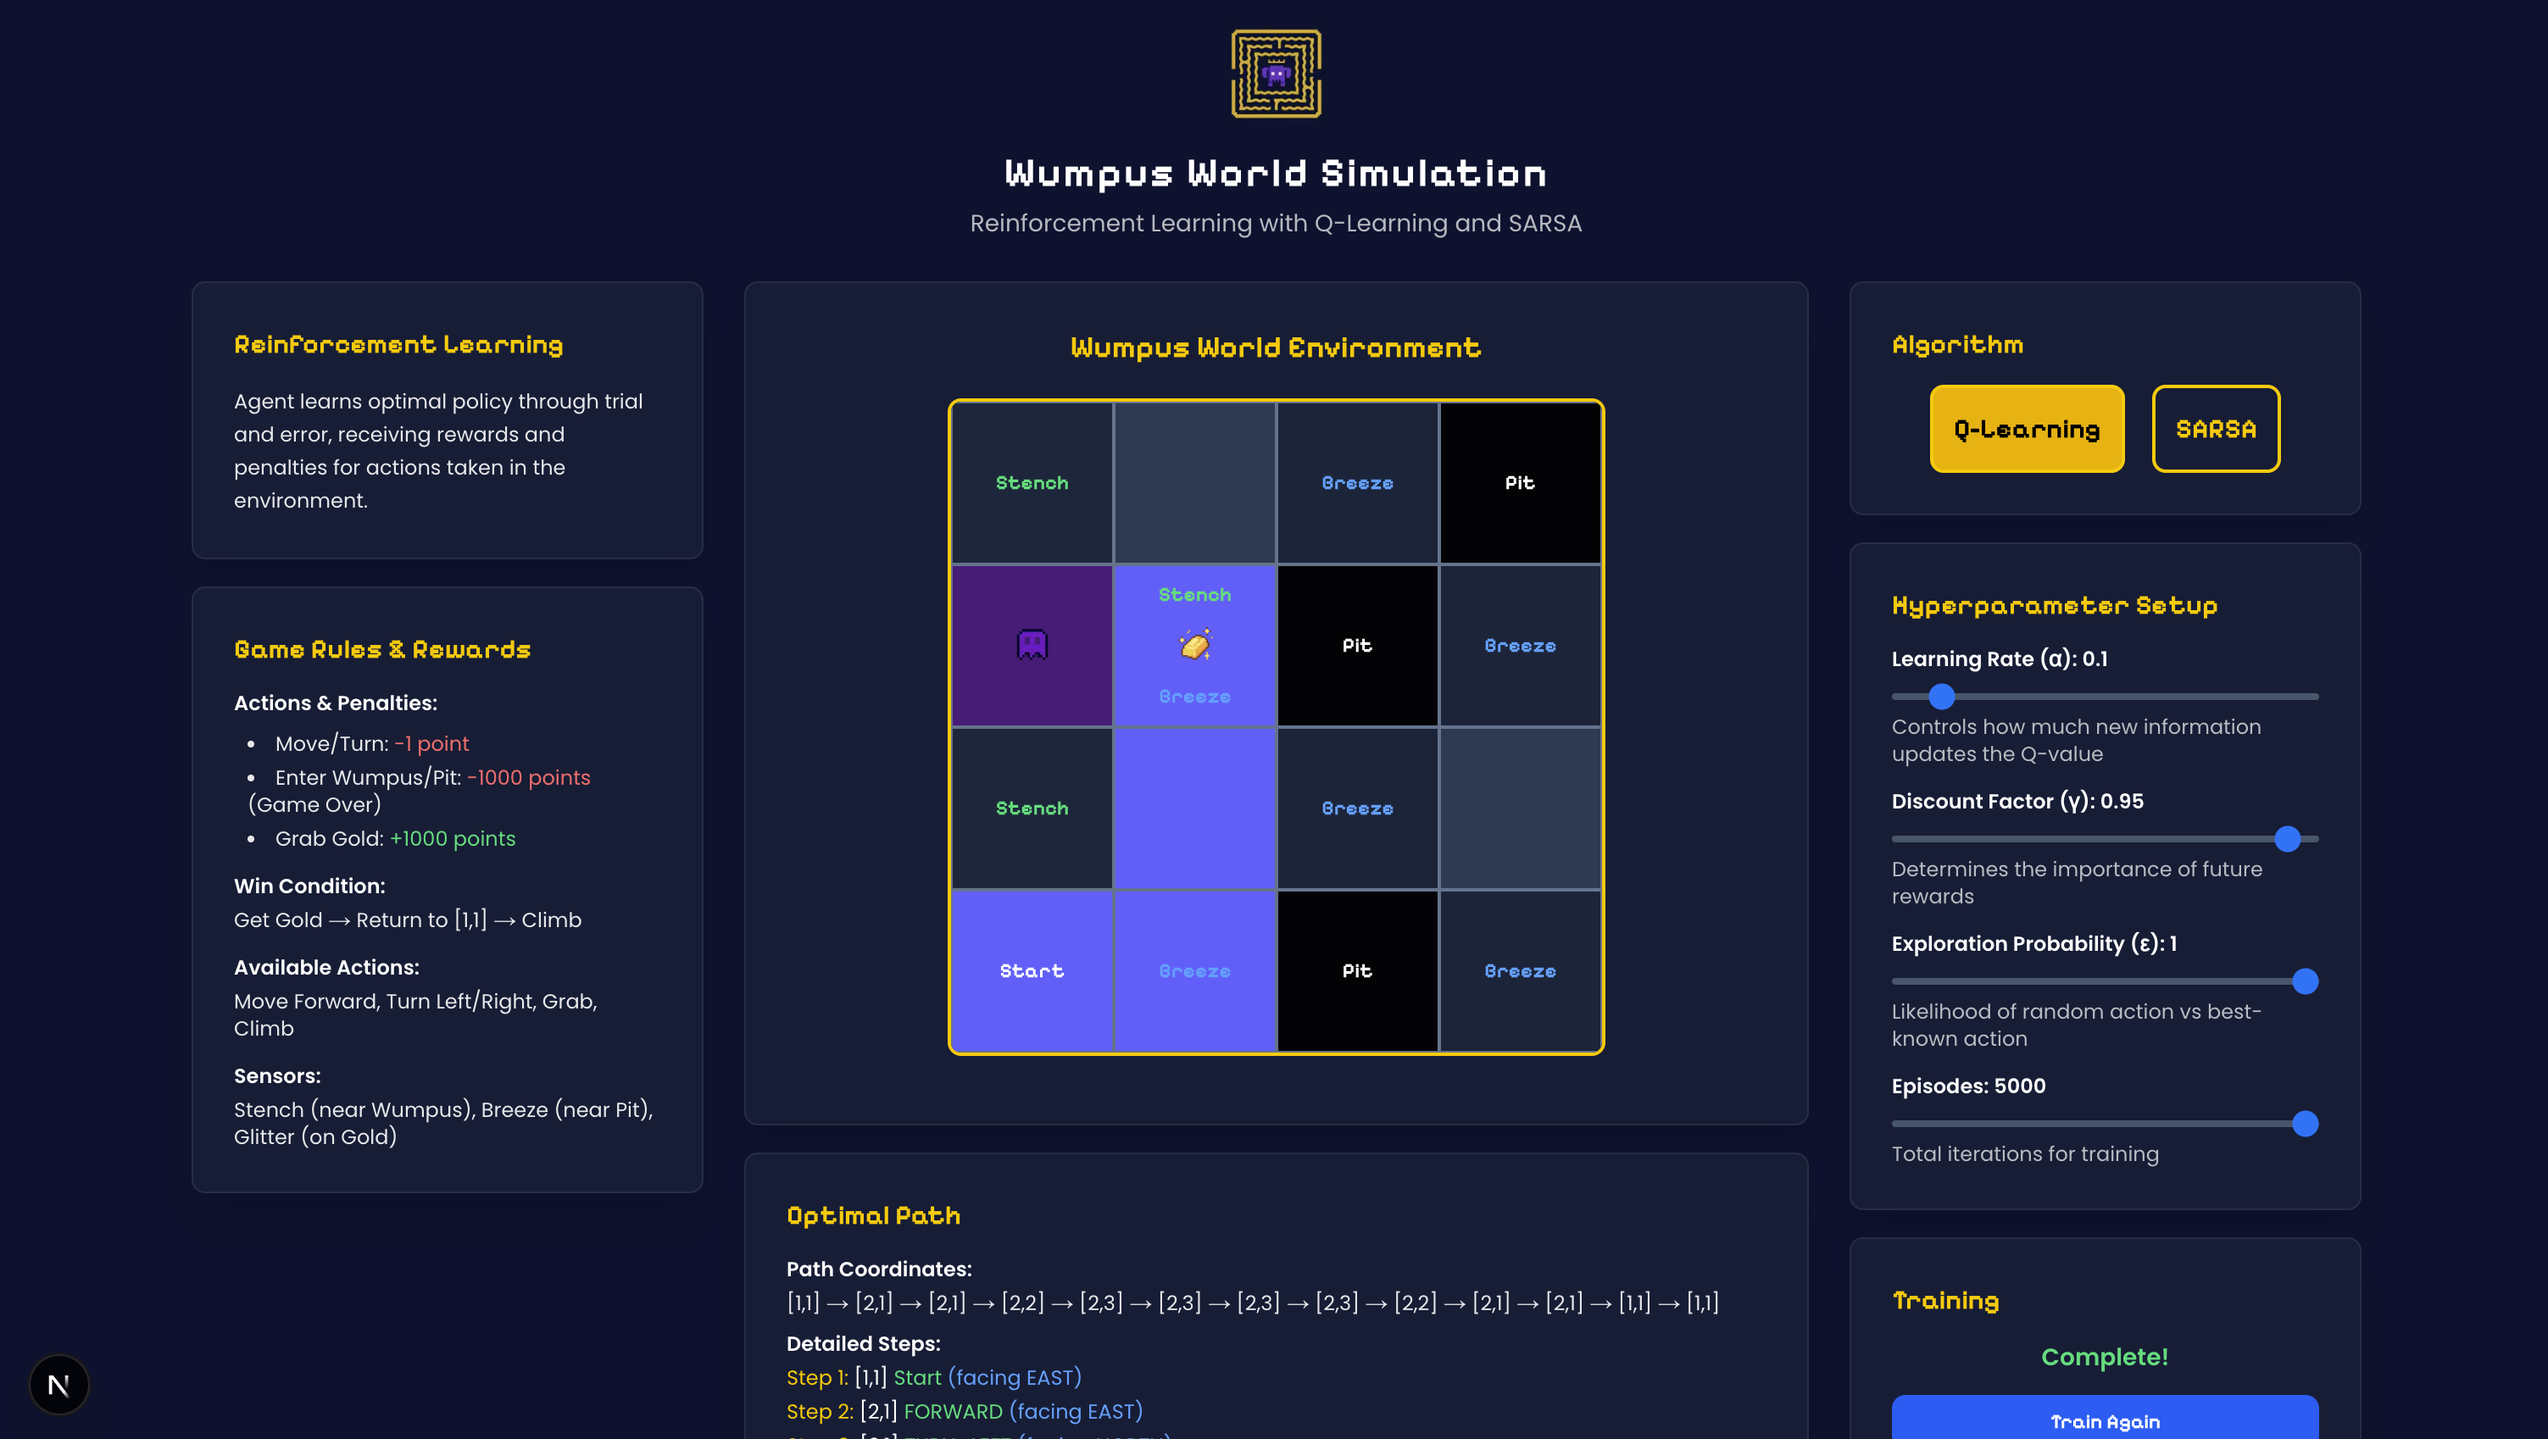
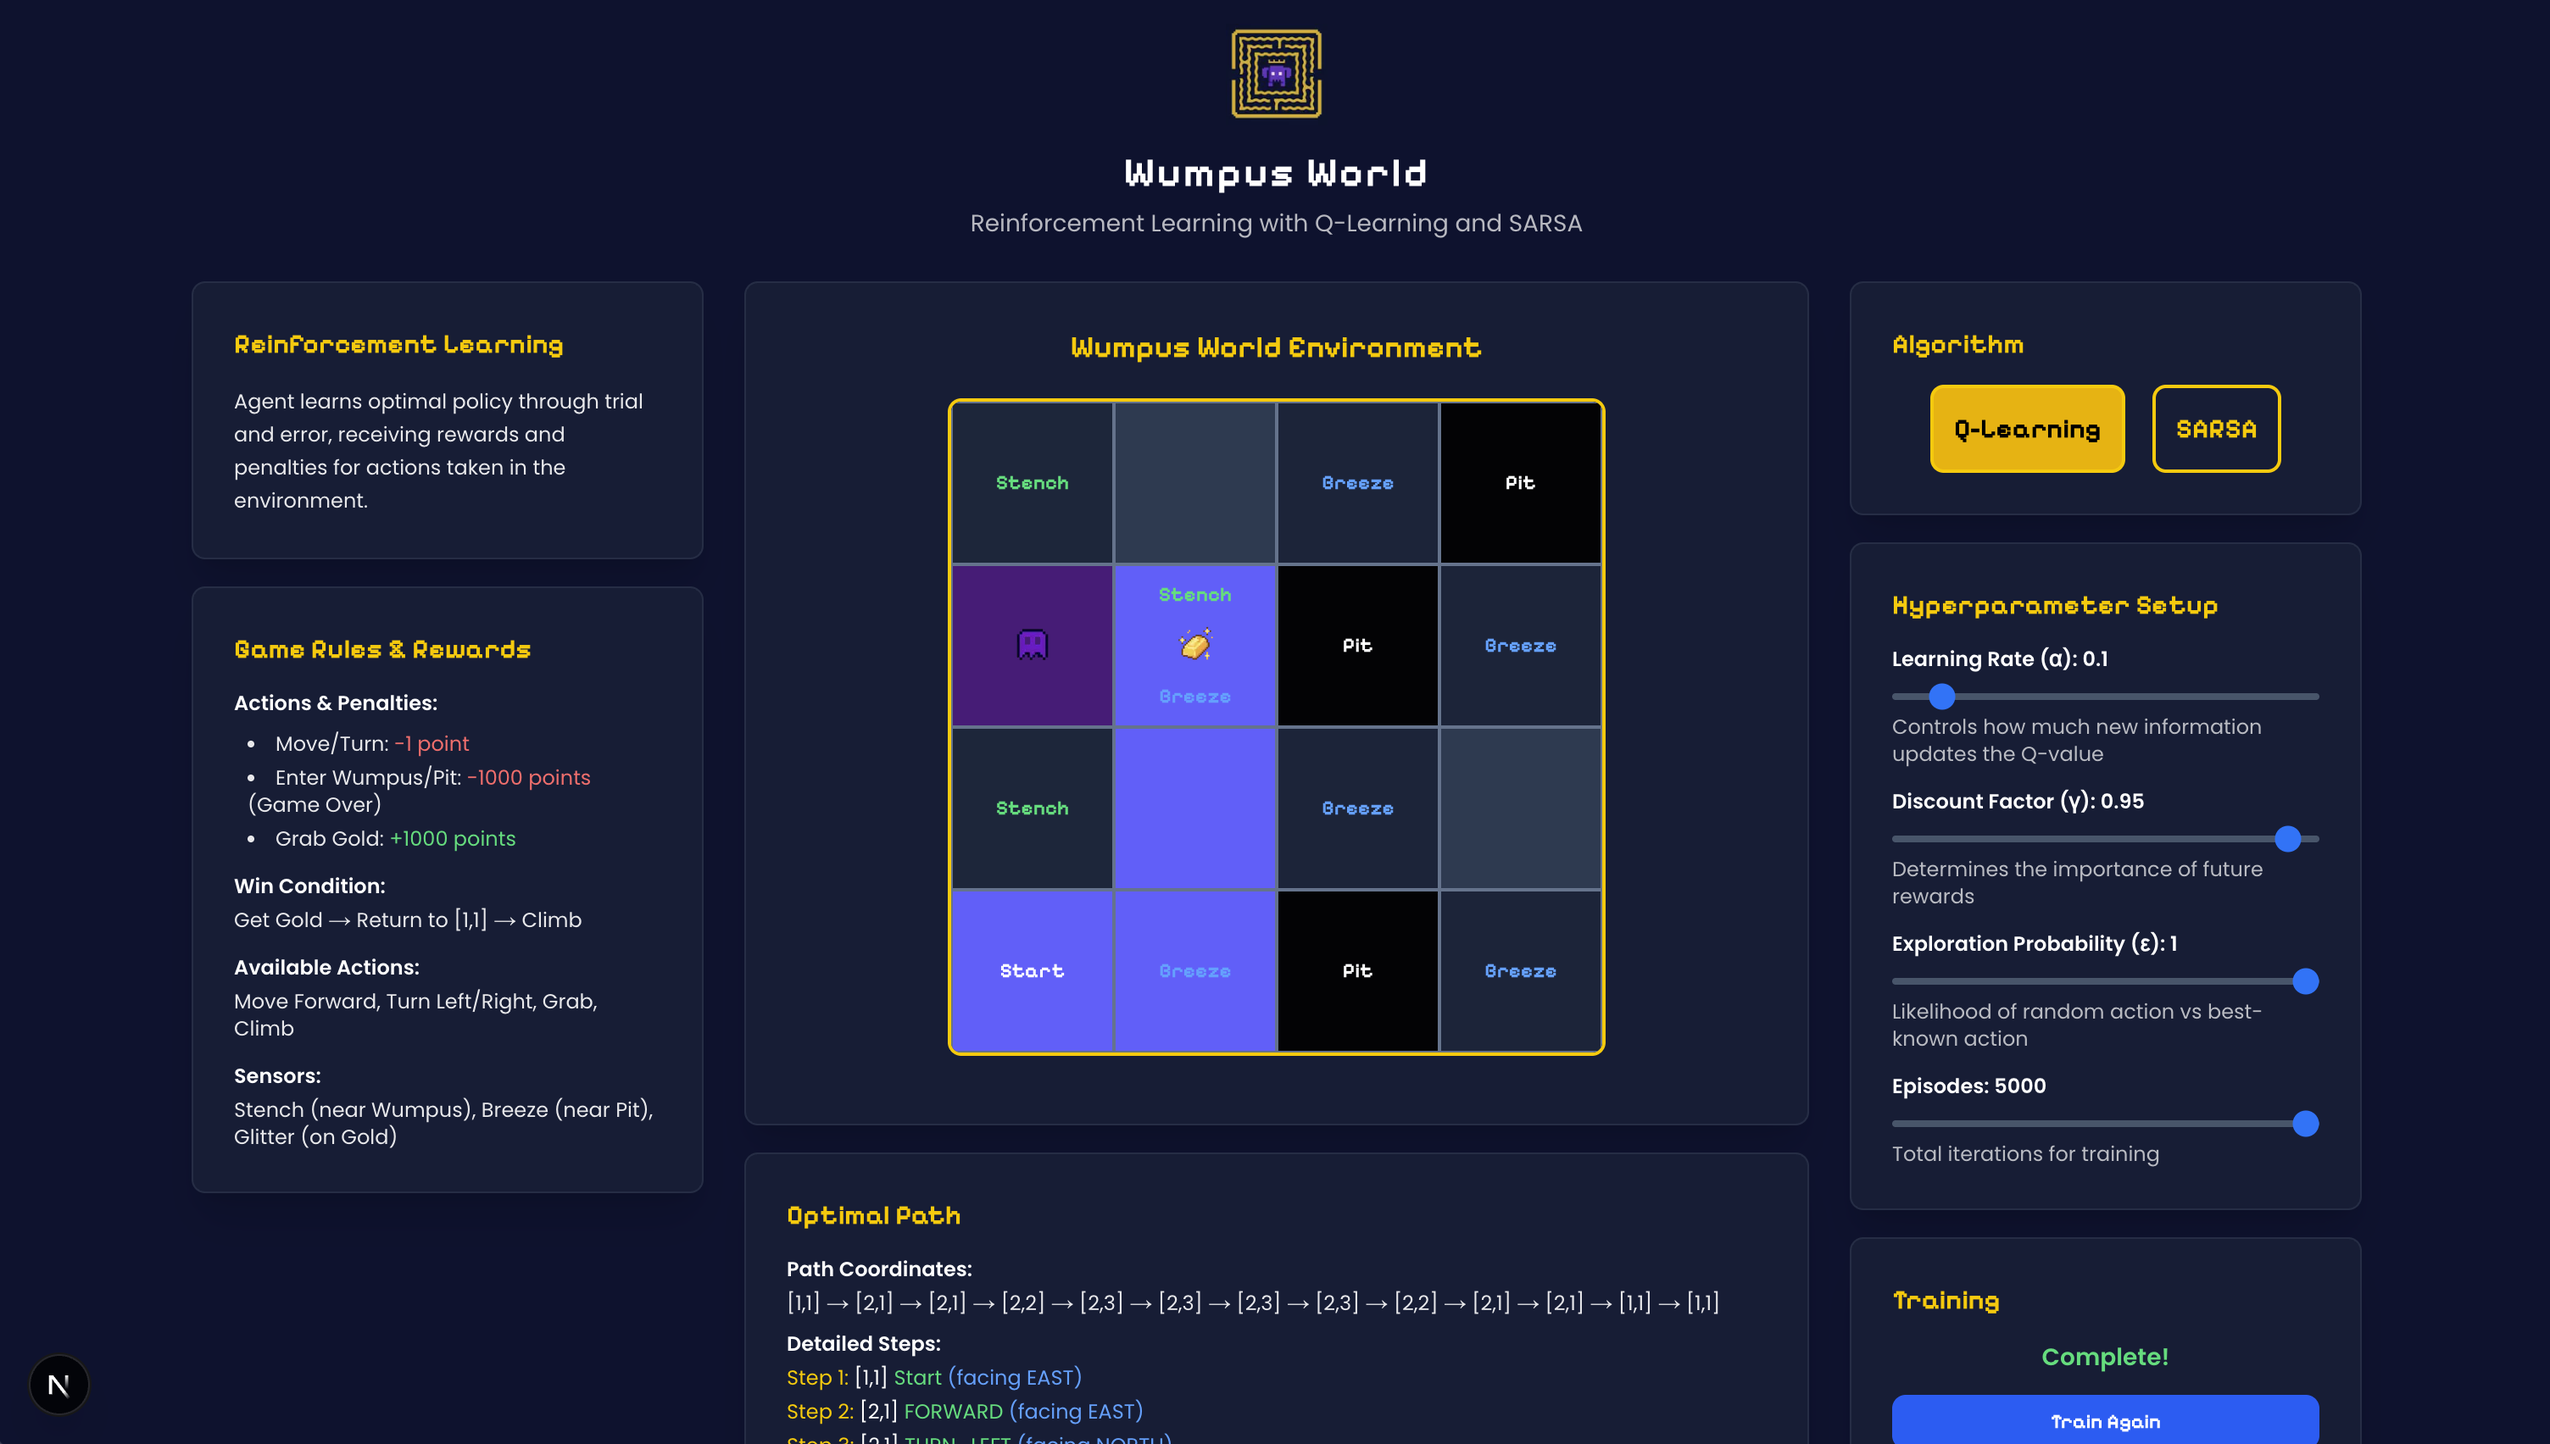
fix: page ui

diff --git a/frontend/src/app/start/page.tsx b/frontend/src/app/start/page.tsx
@@ -23,13 +23,12 @@ export default function Start() {
     learningRate: 0.1,
     discountFactor: 0.95,
     epsilon: 1.0,
-    episodes: 5000 // Meningkatkan episode untuk pelatihan yang lebih baik
+    episodes: 5000
   });
 
   const [qTableData, setQTableData] = useState(null);
   const [optimalPathData, setOptimalPathData] = useState<OptimalPathItem[] | null>(null);
   const [showQTable, setShowQTable] = useState(false);
-  // Perbaikan: Ganti setShowPath menjadi setShowOptimalPath
   const [showOptimalPath, setShowOptimalPath] = useState(false);
 
   const handleStartTraining = async () => {
@@ -100,7 +99,7 @@ export default function Start() {
             className="mx-auto mb-3"
           />
           <h1 className="text-white text-2xl font-bold tracking-wider mb-1">
-            Wumpus World Simulation
+            Wumpus World
           </h1>
           <p className="font-poppins text-white/70 text-sm">
             Reinforcement Learning with Q-Learning and SARSA
